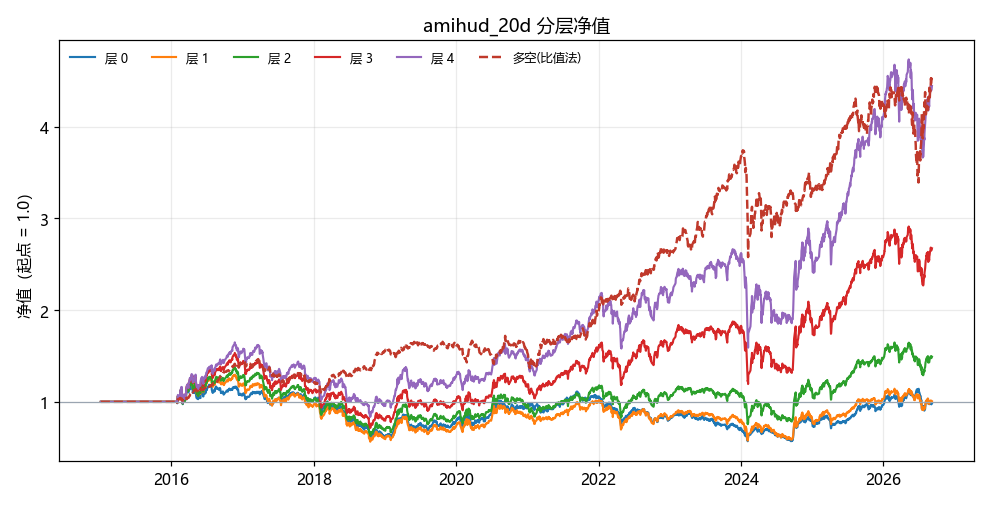
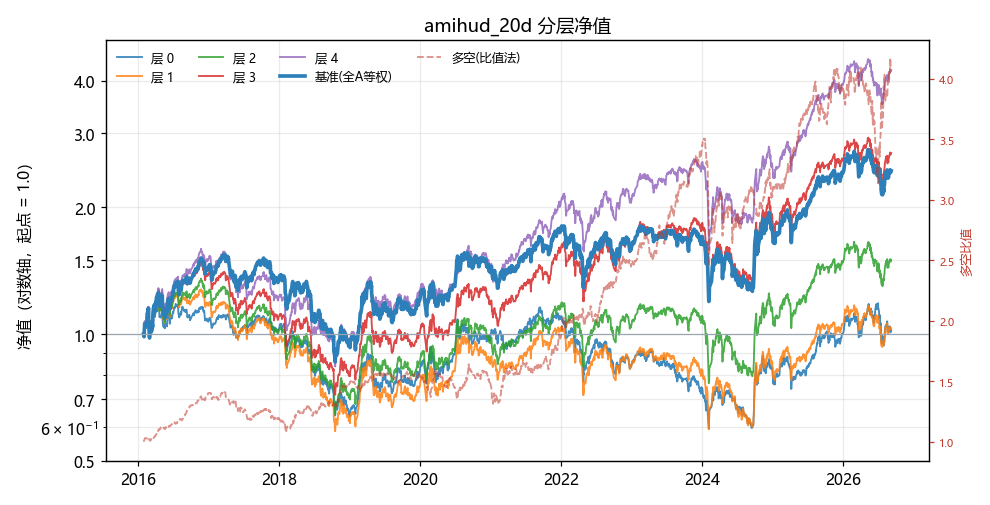
README 补上基准和成本敏感性 —— 顺便把过时的样例更新掉
§6 那个 amihud_20d 的样例还是旧格式：只有 7 列，没有费用合计、没有基准年化、没有超额；
区间写着 2015-01-05（现在从 2016-01-29 起），层4 年化 13.68%（现在 14.67%），
多空 352.12%（现在 315.46%）。留着会误导人，整段换成现在真实跑出来的那份。

顺手把图也换了。旧图是线性的、多空和 5 层共用一根轴 —— 多空跳到 3.1 把左轴 5 层全压扁，
中间几层几乎重叠。新图三条改动：基准线归一化到 1.0 再叠上去、y 轴改对数、多空挪右轴。
换完之后一眼能看出「只有层 4 在基准上面」。

新增一节「成本敏感性分析」，给命令和 2026-10-30 的实测结论：
amihud_20d 是唯一扛得住的（50bp 下超额 +2.55 pp，换手 34 最低），
三个高换手因子在 50bp 下年化掉 8 pp 全部转负，mom_120d 反而从第 6 升到第 4。
还记了一条能直接用的公式：年化成本 ≈ 2 × (累计换手 ÷ 年数) × 滑点，
用 rev_5d 验证过——预算 7.97 pp，实测 8.05 pp。

§8 路线图把 T-3.1 / T-3.2 标完成，下一步改成 T-3.3 / T-3.4。
「扩数据源（市值/股本 + 行业）→ 中性化 → 多因子合成」往后挪了一格 ——
因为 amihud_20d 虽然最好，但它单调性 1.000 太完美，很可能只是小市值的代理，
没有市值数据就没法中性化，先把这个说清楚。

diff --git a/README.md b/README.md
@@ -222,28 +222,70 @@ backtest/engine.py（T+1 开盘成交 / 成本 / 8 本账）→ metrics.py → r
 
 ```
 # 因子回测报告 · amihud_20d
-> 口径声明：区间 2015-01-05 ~ 2026-09-07 ｜ 调仓月频（129 期）｜ 净值 close ｜ 成交 T+1 开盘
+> 口径声明：区间 2016-01-29 ~ 2026-09-07 ｜ 调仓月频（129 期）｜ 净值 close ｜ 成交 T+1 开盘
 > 年化常数 244（A 股）｜ 佣金 0.00025/0.00075 ｜ 滑点 0.0005 ｜ 多空以比值法为准
+> 基准：全 A 等权（每日再平衡、未扣费 ⇒ 基准偏高 ⇒ 超额偏保守）
 ```
 
-| 层 | 期末净值 | 年化 | 波动 | 最大回撤 | 夏普 | 累计换手 |
-| :-: | --: | --: | --: | --: | --: | --: |
-| 0 | 0.9836 | −0.14% | 21.70% | −51.91% | −0.0066 | 27.16 |
-| 1 | 1.0077 | 0.07% | 22.98% | −56.37% | 0.0029 | 56.12 |
-| 2 | 1.4926 | 3.50% | 23.30% | −54.32% | 0.1503 | 66.73 |
-| 3 | 2.6748 | 8.82% | 23.30% | −53.32% | 0.3787 | 64.08 |
-| **4** | **4.4470** | **13.68%** | 23.30% | −49.26% | **0.5872** | 37.17 |
+| 层 | 期末净值 | 年化 | 波动 | 最大回撤 | 夏普 | 累计换手 | 费用合计 | 基准年化 | 超额 |
+| :-: | --: | --: | --: | --: | --: | --: | --: | --: | --: |
+| 0 | 1.0211 | 0.20% | 22.26% | −49.39% | 0.0089 | 25.24 | 0.0231 | 8.83% | **−8.64%** |
+| 1 | 1.0328 | 0.31% | 23.56% | −54.03% | 0.0130 | 53.78 | 0.0486 | 8.83% | −8.53% |
+| 2 | 1.5017 | 3.93% | 23.95% | −52.43% | 0.1639 | 64.35 | 0.0687 | 8.83% | −4.91% |
+| 3 | 2.6935 | 9.84% | 23.95% | −51.81% | 0.4108 | 61.75 | 0.0912 | 8.83% | +1.01% |
+| **4** | **4.2425** | **14.67%** | 23.43% | −47.51% | **0.6262** | 34.00 | 0.0637 | 8.83% | **+5.84%** |
 
-**IC 均值 0.0597 ｜ IC-IR 1.3789 ｜ 期数 128 ｜ 多空（比值法）352.12%**
+**IC 均值 0.0597 ｜ IC-IR 1.3789 ｜ 期数 128 ｜ 多空（比值法）315.46%**
 
 ![amihud_20d 分层净值](docs/images/nav_amihud_20d.png)
 
-> 5 层净值（起点 1.0，5 条实线）+ 多空（层4/层0，红虚线）
+> 5 层净值（细线）+ 基准线（粗蓝，全 A 等权）+ 多空在右轴；y 轴对数，起点都是 1.0
+> 对数轴不是装饰：净值跨 0.5~4.0 时，线性轴会把中间几层压成一团看不清
+> 多空挪右轴同理：它是「层4/层0」的比值，跳到 3 以上会把左轴 5 层全压扁
 
-> **单调 ✓**：0.98 → 1.01 → 1.49 → 2.67 → 4.45
-> **而且 5 个老因子的层0换手一字未变**（100.1725 / 96.5218 / 51.7934 / 72.5201 / 99.5793）
-> ⇒ **加一张表、多一个因子，没有动到任何已有的结论** ✓
+> **单调 ✓**：1.02 → 1.03 → 1.50 → 2.69 → 4.24
+> **但只有层 4 跑赢基准**（+5.84%），层 0~2 全在基准下面 −8.64% / −8.53% / −4.91%
+> ⇒ **这就是装了基准之后才知道的事**：以前只看年化 0.20% / 14.67%，没法和市场比
 
+
+## 成本敏感性分析
+这是一个新增的功能，用于衡量因子本身对于交易成本(比如滑点)这类因素变动的敏感程度，从中我们可以看出在成本的影响下因子本身的收益会产生什么变化，对因子本身受到成本的影响并不能预设变化的本身是线性变动的所以需要分析其敏感度
+测试结果自动保存在report文件夹里面的`cost_sensitivity`文件内
+一条命令对因子进行对比：
+
+```powershell
+python ops\cost_sensitivity.py
+```
+
+它把滑点从 5bp 拉到 20bp、50bp，六个因子各跑三遍。
+
+**为什么这么快**：基准不扣费，三档一模一样，算一次就够；目标权重 W 跟滑点没关系，
+三档共用，只重跑引擎。
+
+结果写到 `reports/cost_sensitivity.md`。看第 2 节就行 —— 第 1 节是 18 行明细，
+第 2 节那张 Δrank 表才是结论。
+
+**2026-10-30 实测**：
+
+| 因子 | 5bp→50bp | Δrank | 50bp 年化 | 50bp 超额 | 累计换手 |
+| :-- | :-: | --: | --: | --: | --: |
+| `amihud_20d` | 1 → 1 | +0 | **11.39%** | **+2.55%** | 34 |
+| `vol_20d` | 2 → 2 | +0 | 2.51% | −6.32% | 59 |
+| `rev_20d` | 3 → 3 | +0 | −3.07% | −11.91% | 95 |
+| `ma_dev_20d` | 4 → 5 | +1 | −4.01% | −12.84% | 95 |
+| `rev_5d` | 5 → 6 | +1 | −4.54% | −13.37% | 94 |
+| `mom_120d` | 6 → 4 | −2 | −3.64% | −12.47% | 41 |
+
+**三句话**：
+
+1. 只有 `amihud_20d` 扛得住。50bp 下超额还剩 +2.55 pp，因为它换手最低 —— 34。
+2. 三个高换手的（94~95）在 50bp 下全崩，年化掉 8 pp，集体转负。
+3. 成本一高，低换手的反而往上走。`mom_120d` 从第 6 升到第 4，尽管它年化是六个里最差的。
+
+**这套分析没管的**：佣金（固定的，不随行就市）；真实冲击成本（按我们的体量可以先不管，
+大资金就不行了）。
+
+---
 
 ## 改动怎么记账 —— BASELINE 台账
 
@@ -337,10 +379,11 @@ backtest/engine.py（T+1 开盘成交 / 成本 / 8 本账）→ metrics.py → r
 
 | 阶段 | 内容 | 状态 |
 | :-: | :-- | :-- |
-| 完成 | 单因子研究闭环（清洗 → 宽表 → 指标 → 因子 → 分层 → 报告）· 一条命令跑全链 · 可复现与台账 | 今天 |
-| 下一步 | 扩数据源（**市值/股本 + 行业**）→ 因子**中性化** → 多因子合成与相关性去重 | — |
-| 之后 | 组合层（等权/风险平价/最小方差）· 执行层（涨跌停/容量/融券）· 回测提速（面板常驻 + 引擎按调仓日切片） | — |
-| 远期 | 表达式因子（输入 `rank(ret(5))` 直接出报告）→ 交互式研究界面 | — |
+| 完成 | 单因子研究闭环（清洗 → 宽表 → 指标 → 因子 → 分层 → 报告）· 一条命令跑全链 · 可复现与台账 | 2026-09 |
+| 完成 | **基准线 + 成本敏感性**：结论第一次可以拿给人看 —— 知道谁跑赢市场、知道成本翻倍后谁还站得住 | 2026-10-30 |
+| 下一步 | 样本外分段（T-3.3）· 多空口径修订（T-3.4，把「比值法 315%」换成「层4 − 层0」+ t 值） | — |
+| 之后 | 扩数据源（**市值/股本 + 行业**）→ 因子**中性化** → 多因子合成与相关性去重 | — |
+| 远期 | 组合层（等权/风险平价/最小方差）· 执行层（容量/融券）· 表达式因子（`rank(ret(5))` 直接出报告） | — |
 
 **这个项目不追求"一次写出万能框架"** —— 它追求的是：**加东西只加登记，改口径有据可查** 
 
@@ -381,10 +424,8 @@ backtest/engine.py（T+1 开盘成交 / 成本 / 8 本账）→ metrics.py → r
   只有追问能让问题暴露；而它答得起，因为基于问题衍生的方案对它是低成本的，且可验证。
 - 我抓到的 AI 错误也照记不误，可以去看看ai写的代码会犯多少奇怪和致命的错误
 - 真心话：抗拒ai进入编程的环节是不合理的，这几个月感觉下来人在编程中承担的角色已经发生了极大改变
-  但是重要的事情说三遍：
-  ai不是许愿机！
-  ai不是许愿机！
-  ai不是许愿机！
+  以前主要是花时间思考语法现在花了更多时间思考架构设计和功能实现，但是嘛，这个过程总是会出现一些奇奇怪怪的错误，你说它聪明吧，它又总是犯奇奇怪怪的错误，你说它不聪明吧，它又能帮你探索和实现很多想法和知识。
+  唉，大肥鱼......
 
 ---
 
